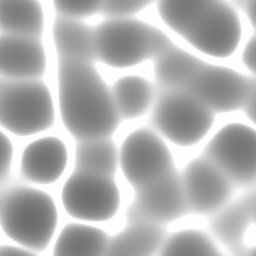
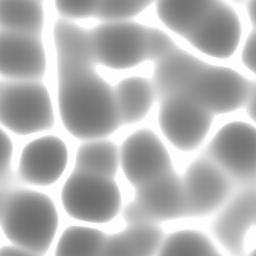
COGA - Grúa - Mejoras finales

diff --git a/C2 S2 Computacion Grafica/Practica 5/3_3/Grua/MainGrua.cpp b/C2 S2 Computacion Grafica/Practica 5/3_3/Grua/MainGrua.cpp
@@ -377,6 +377,18 @@ void dibujaFoco(int transformLoc) {
     glUniformMatrix4fv(transformLoc, 1, GL_FALSE, glm::value_ptr(transform));
 }
 
+void pisaPiscina() {
+    float rango = 0.6f; // Definimos un rango de tolerancia para la comparación
+
+    // Verificamos si la base de la grúa está cerca de la posición de la piscina
+    if (fabs(base.px - (-1.0f)) < rango && fabs(base.py - 0.0f) < rango) {
+        // Si está cerca, movemos la base de la grúa a una nueva posición
+        base.px = 0.0f;
+        base.py = 0.0f;
+        velocidadGrua = 0.0f;
+    }
+}
+
 int main() {
     // glfw: initialize and configure
     // ------------------------------
@@ -388,7 +400,7 @@ int main() {
     //'Z,X,C'->Cambiar vista, 'L,K'-> mover la camaraSeleccionada, 'T,F,G,H'-> mover brazo arriba, 'A,D,S,W'-> mover brazo abajo
     //
     //Creo la ventana
-    GLFWwindow *window = glfwCreateWindow(SCR_WIDTH, SCR_HEIGHT, "Grúa Riazor", NULL, NULL);
+    GLFWwindow *window = glfwCreateWindow(SCR_WIDTH, SCR_HEIGHT, "Grúa Estadio", NULL, NULL);
     if (window == NULL) {
         std::cout << "Failed to create GLFW window" << std::endl;
         glfwTerminate();
@@ -475,6 +487,9 @@ int main() {
         //Movimiento de la base con aceleración
         base.px += velocidadGrua * (float) cos360(base.angulo_trans);
         base.py += velocidadGrua * (float) sin360(base.angulo_trans);
+
+        //Comprobamos si pisa la piscina
+        pisaPiscina();
 
         //Color para la base
         unsigned int colorLoGrua = glGetUniformLocation(myShaderProgram, "objectColor");

diff --git a/C2 S2 Computacion Grafica/Practica 5/3_3/Grua/cargasIniciales.cpp b/C2 S2 Computacion Grafica/Practica 5/3_3/Grua/cargasIniciales.cpp
@@ -6,7 +6,7 @@
 #include "stb_image.h"
 
 // Texturas
-unsigned int texturaPiscina[16] = { 0, 0, 0, 0, 0, 0, 0, 0, 0, 0, 0, 0, 0, 0, 0, 0 };
+unsigned int texturaPiscina[kNumTexturasPiscina] = { 0, 0, 0, 0, 0, 0, 0, 0, 0, 0, 0, 0, 0, 0, 0 };
 unsigned int texturaSuelo = 0;
 unsigned int texturaEstadio = 0;
 
@@ -85,7 +85,7 @@ void cargaUnaTextura(const char* nombreTextura, unsigned int* textura, int forma
         glGenerateMipmap(GL_TEXTURE_2D);
     }
     else {
-        std::cout << "Error al cargar la textura" << std::endl;
+        std::cout << "Error al cargar la textura '"<< nombreTextura << "'" << std::endl;
     }
     stbi_image_free(data);
 
@@ -129,5 +129,4 @@ void cargaTexturasPiscina() {
     cargaUnaTextura("Texturas/caust12.png", &texturaPiscina[12], GL_RGBA);
     cargaUnaTextura("Texturas/caust13.png", &texturaPiscina[13], GL_RGBA);
     cargaUnaTextura("Texturas/caust14.png", &texturaPiscina[14], GL_RGBA);
-    cargaUnaTextura("Texturas/caust15.png", &texturaPiscina[15], GL_RGBA);
 }

diff --git a/C2 S2 Computacion Grafica/Practica 5/3_3/Grua/piscina.cpp b/C2 S2 Computacion Grafica/Practica 5/3_3/Grua/piscina.cpp
@@ -2,14 +2,10 @@
 #include "comun.h"
 
 
-//void ajustarAnimacionPiscina();
 void ajustarAnimacionPiscina() {
     piscina_contador++;
     if (piscina_contador == 60) {
-        if (piscina_instante == 10) {
-            piscina_instante = 12;
-        }
-        else if (piscina_instante < 15) {
+        if (piscina_instante < kNumTexturasPiscina - 1) {
             piscina_instante++;
         }
         else {
@@ -66,10 +62,6 @@ void activarTexturasPiscina() {
     case 14:
         glActiveTexture(GL_TEXTURE15);
         break;
-    case 15:
-        glActiveTexture(GL_TEXTURE16);
-        break;
-
     }
 }
 

diff --git a/C2 S2 Computacion Grafica/Practica 5/3_3/Grua/controles.cpp b/C2 S2 Computacion Grafica/Practica 5/3_3/Grua/controles.cpp
@@ -9,7 +9,7 @@ void myProcessInput(GLFWwindow *window) {
 
 
 void myKeyCallback(GLFWwindow *window, int key, int scancode, int action, int mods) {
-    std::cout << key << std::endl;
+    // std::cout << key << std::endl;
 
     //Primera arti
     if (key == 'A' && baseA1.angulo_trans >= -85) { //A

diff --git a/C2 S2 Computacion Grafica/Practica 5/3_3/Grua/comun.h b/C2 S2 Computacion Grafica/Practica 5/3_3/Grua/comun.h
@@ -67,7 +67,8 @@ typedef struct {
 // --
 
 // Texturas
-extern unsigned int texturaPiscina[16];
+#define kNumTexturasPiscina 15
+extern unsigned int texturaPiscina[kNumTexturasPiscina];
 extern unsigned int texturaSuelo;
 extern unsigned int texturaEstadio;
 
